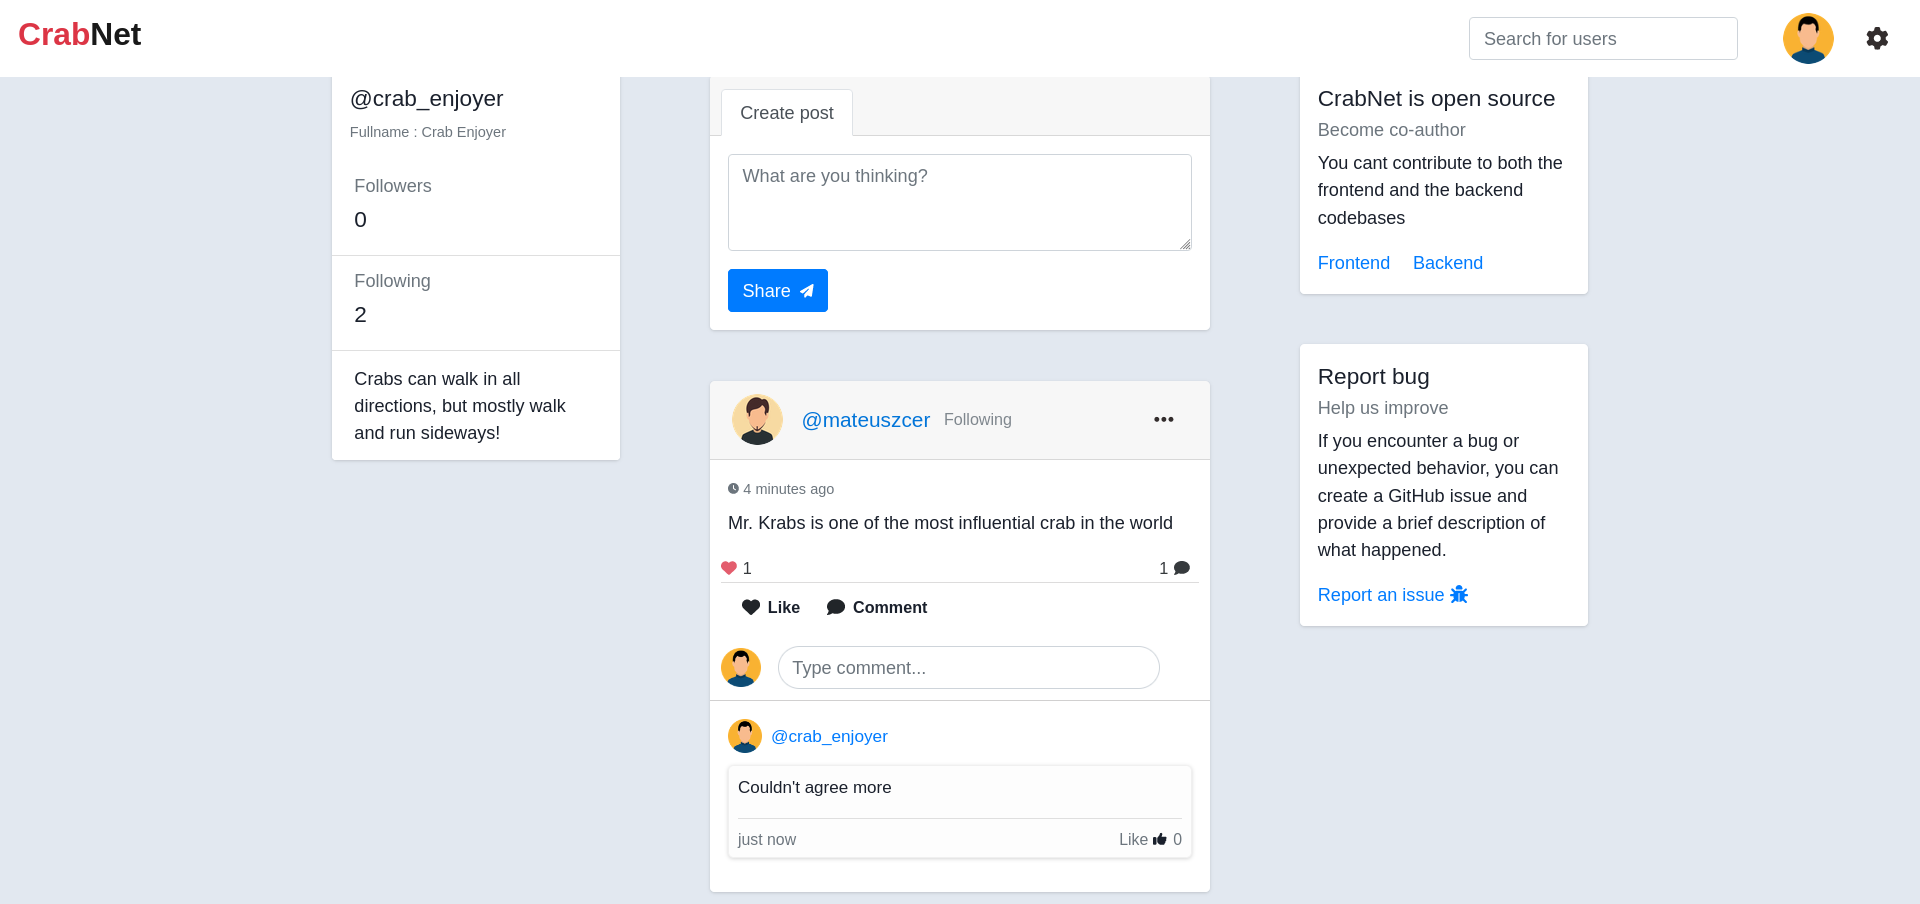
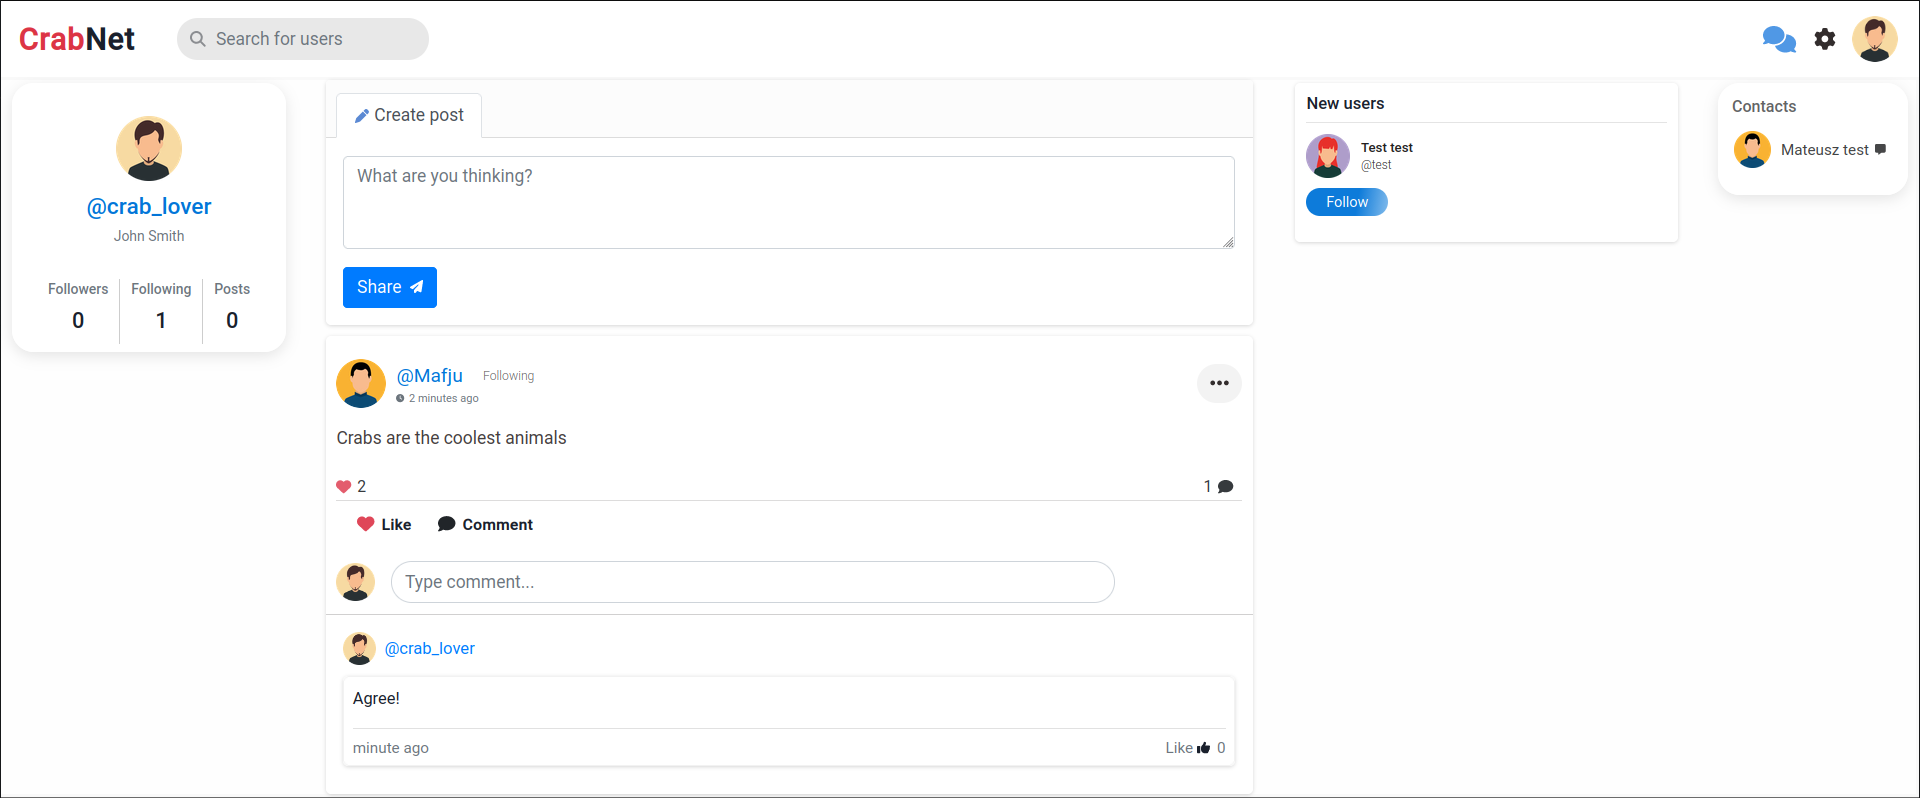
update demo and remove link

diff --git a/README.md b/README.md
@@ -7,11 +7,6 @@ This is frontend of social media app project Crabnet
 [Checkout backend written in Spring](https://github.com/mateuszcer/crabnet-backend)
 
 
-## Try it
-Frontend is deployed to Netlify and backend to heroku
-
-https://crabnet.netlify.app/
-
 ## Run Locally
 
 Clone the project
